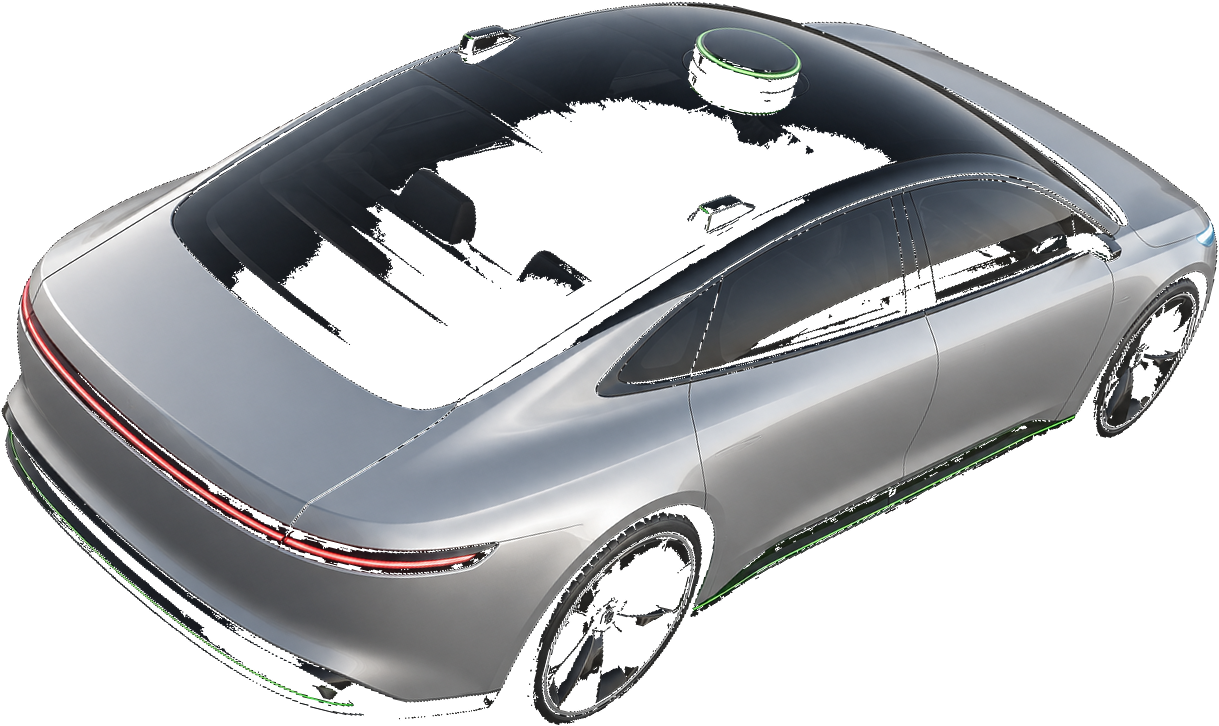
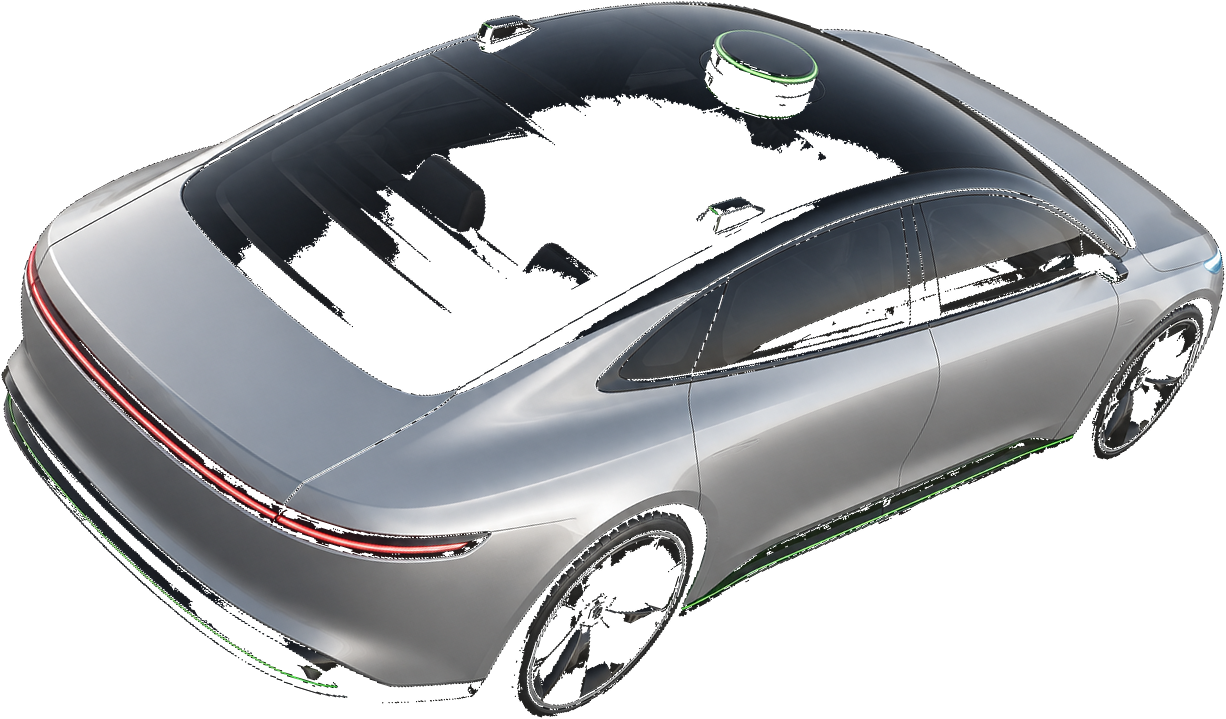
Site: shrink and reposition robotaxi
- Rotate 3° more CW (17° total from source render)
- Reduce size 30vh -> 24vh
- Shift anchor from (-2%, 106%) to (3%, 100%) so the car sits higher and
  a touch further right, staying clear of the awards timeline text.

Changed region(s): [[0.0, 0.0, 1.0, 1.0], [0.4364, 0.6426, 0.4988, 0.6732]]

diff --git a/assets/css/style.css b/assets/css/style.css
@@ -98,12 +98,12 @@ body::after {
      percentages so the composition holds up across screen sizes. */
   background:
     url("../img/humanoid.png") 88% 62% / auto 30vh no-repeat,
-    /* Robotaxi is a rear-quarter aerial render — the vehicle is yawed in
-       world space so it drives from lower-left toward upper-right, tracking
-       a perspective grid line that converges on the vanishing point at
-       (50%, 44%) in bg-scene.svg. No 2D rotation applied. Anchored in the
-       bottom-left corner. */
-    url("../img/robotaxi.png") -2% 106% / auto 30vh no-repeat,
+    /* Robotaxi is a rear-quarter aerial render, yawed in world space plus a
+       small (~17°) additional image-plane rotation so its heading tracks
+       the perspective grid line converging to (50%, 44%) in bg-scene.svg.
+       Anchored in the bottom-left area, sized to stay clear of the awards
+       timeline text. */
+    url("../img/robotaxi.png") 3% 100% / auto 24vh no-repeat,
     radial-gradient(60rem 44rem at 8% -6%,
       color-mix(in oklab, var(--accent) 24%, transparent) 0%,
       transparent 55%),
@@ -119,7 +119,7 @@ body::after {
 [data-theme="light"] body::after {
   background:
     url("../img/humanoid.png") 88% 62% / auto 30vh no-repeat,
-    url("../img/robotaxi.png") -2% 106% / auto 30vh no-repeat,
+    url("../img/robotaxi.png") 3% 100% / auto 24vh no-repeat,
     radial-gradient(60rem 44rem at 8% -6%,
       color-mix(in oklab, var(--accent) 30%, transparent) 0%,
       transparent 55%),
